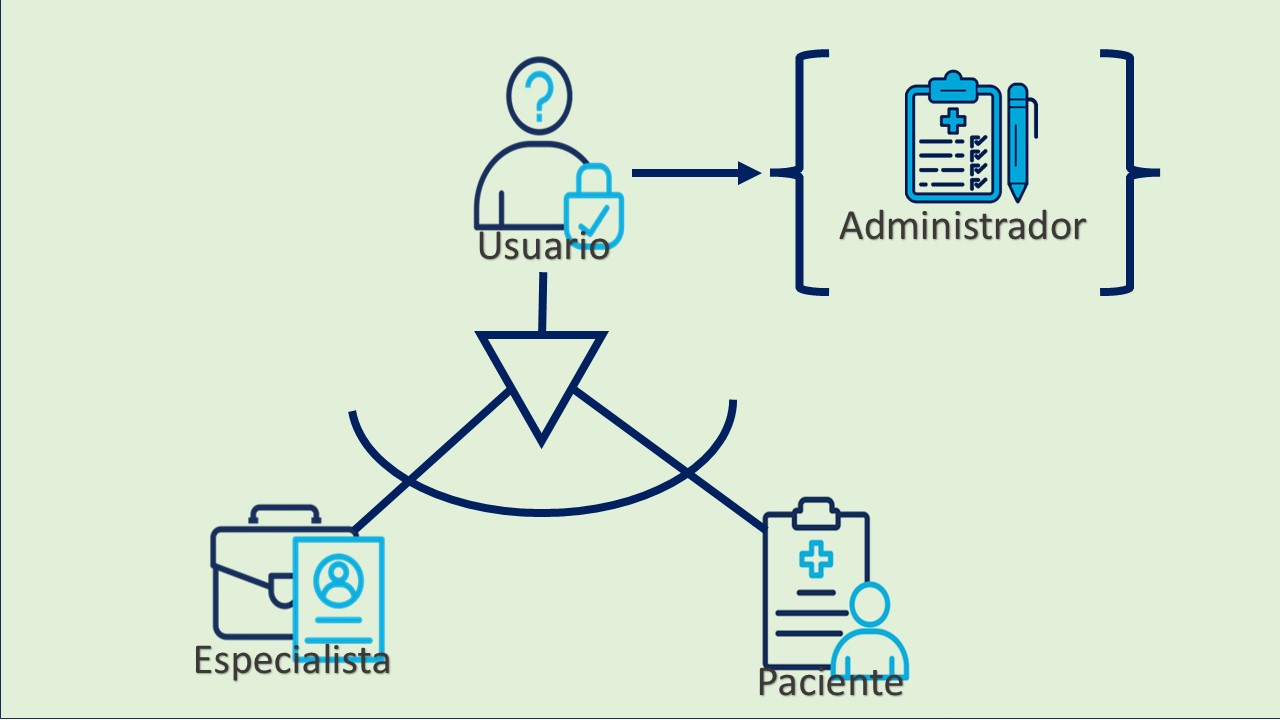
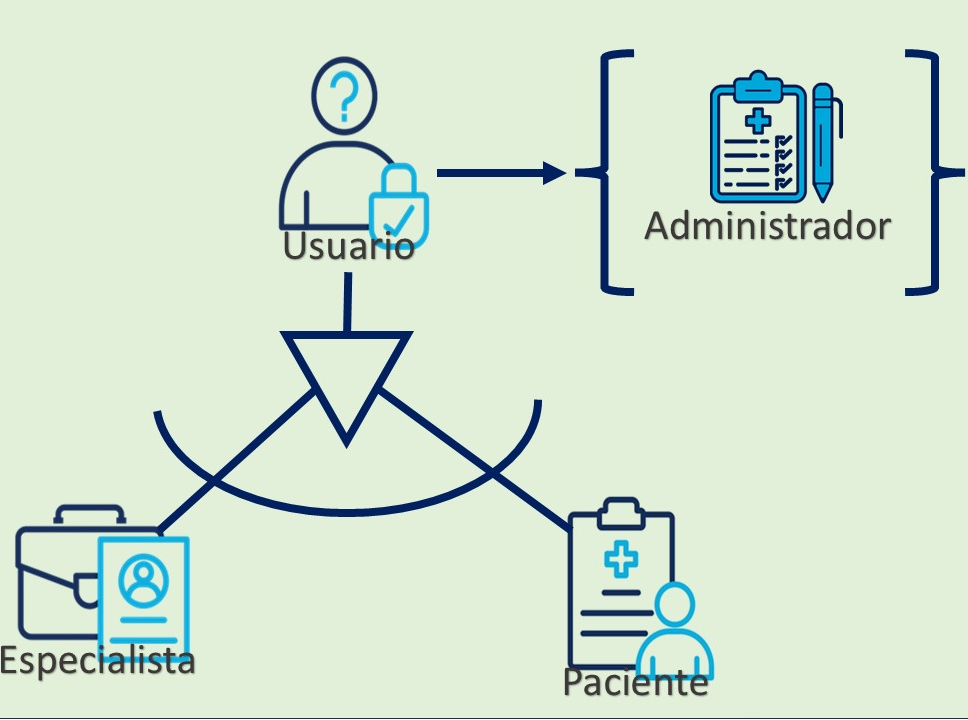
edición de imágenes y implementación de visor especifico de algunas imágenes

diff --git a/presentacion/contenido/003.html b/presentacion/contenido/003.html
@@ -1,10 +1,13 @@
 <div class="block-wrapper">
     <div class="text-content">
         <h2>Diseño del sistema</h2>
-        <p>Lorem, ipsum dolor sit amet consectetur adipisicing elit. Libero, odio! Aspernatur nam culpa molestiae sit iste corporis ipsam voluptate aut, veritatis dolorem nulla veniam eius in odit illo. Voluptatibus natus inventore libero provident alias aspernatur? Blanditiis eaque, et maiores perspiciatis neque quod facilis? Quis nam voluptates molestiae aliquid minus nostrum, perspiciatis asperiores vel, quae repellendus eveniet vitae, porro similique provident fugit facilis atque delectus quia nisi quos error quo at animi numquam? Vel dolore voluptate dolorum assumenda sit. Ab quasi, et aspernatur, possimus mollitia reprehenderit nisi eligendi consequuntur obcaecati magni magnam dolores corporis itaque neque velit aliquid ducimus eum! Perferendis fuga ut, fugit explicabo eaque similique corrupti. Aut omnis vero quis hic nisi! Doloremque et cum error temporibus nostrum ratione praesentium tempore blanditiis quidem inventore qui rem quos, deleniti eum cumque ab voluptate illum accusantium iusto fugiat, minima quibusdam iure. Exercitationem aut doloremque molestias qui nulla sint quae eius hic!</p>
-        <p>Lorem ipsum dolor sit amet consectetur adipisicing elit. Molestias unde officia dolore recusandae voluptates, repellendus eveniet doloremque maiores! Reiciendis, velit. Neque molestiae officia corporis veniam. Modi itaque molestiae facilis labore.</p>
+        <p>Arquitectura API Rest</p>
+        <p>Frontend sirviendo una SPA</p>
+        <p>Laravel sirviendo la API Rest</p>
+        <p>Base de datos en MySQL</p>
+        <p>Docker y Traefik para orquestar el servicio y las comunicaciones</p>
     </div>
     <div class="image-container">
-        <img src="contenido/002.png" alt="Diagrama de flujo de datos del proyecto.">
+        <img src="contenido/003_edit.png" alt="Diagrama de flujo de datos del proyecto.">
     </div>
 </div>

diff --git a/presentacion/contenido/006.html b/presentacion/contenido/006.html
@@ -3,17 +3,17 @@
         <h2>Base de datos</h2>
         <p>La base de datos está diseñada de forma relacional y normalizada.</p>
         <ul>
-            <li><strong>users</strong> -> información común de todos los usuarios</li>
-            <li><strong>roles / model_has_roles</strong> -> control de permisos</li>
-            <li><strong>pacientes / especialistas</strong> -> datos específicos por rol</li>
-            <li><strong>citas</strong> -> gestión unificada de consultas y citas</li>
-            <li><strong>historiales</strong> -> información médica</li>
-            <li><strong>documentos</strong> -> archivos asociados a historiales</li>
-            <li><strong>logs</strong> -> auditoría de acciones</li>
+            <li><p><strong>users</strong> -> información común de todos los usuarios</p></li>
+            <li><p><strong>roles / model_has_roles</strong> -> control de permisos</p></li>
+            <li><p><strong>pacientes / especialistas</strong> -> datos específicos por rol</p></li>
+            <li><p><strong>citas</strong> -> gestión unificada de consultas y citas</p></li>
+            <li><p><strong>historiales</strong> -> información médica</p></li>
+            <li><p><strong>documentos</strong> -> archivos asociados a historiales</p></li>
+            <li><p><strong>logs</strong> -> auditoría de acciones</p></li>
         </ul>
     </div>
 </div>
 <div class="image-container">
-    <img src="contenido/006.png" alt="Imagen de Swagger.">
+    <a href="/presentacion/contenido/Visor_imagen6.html"><img src="contenido/006.png" alt="Base de datos original."></a>
 </div>
 </div>

diff --git a/presentacion/contenido/005.html b/presentacion/contenido/005.html
@@ -2,25 +2,17 @@
     <div class="text-content">
         <h2>Roles del sistema</h2>
         <p><strong>Administrador:</strong></p>
-        <ul>
-            <li>Gestión completa de usuarios</li>
-            <li>Control general del sistema</li>
-        </ul>
+        <p>- Gestión completa de usuarios</p>
+        <p>- Control general del sistema</p>
         <p><strong>Especialista:</strong></p>
-        <ul>
-            <li>Gestión de citas</li>
-            <li>Acceso a historiales médicos</li>
-            <li>Subida y consulta de documentos</li>
-        </ul>
+        <p>- Gestión de citas</p>
+        <p>- Acceso a historiales médicos</p>
+        <p>- Subida y consulta de documentos</p>
         <p><strong>Paciente:</strong></p>
-        <ul>
-            <li>Consulta de citas</li>
-            <li>Acceso a su historial y documentos</li>
-        </ul>
+        <p>- Consulta de citas</p>
+        <p>- Acceso a su historial y documentos</p>
         <p><strong>Usuario:</strong></p>
-        <ul>
-            <li>Usuario sin rol clínico asignado inicialmente</li>
-        </ul>
+        <p>- Usuario sin rol clínico asignado inicialmente</p>
 
     </div>
 </div>

diff --git a/presentacion/contenido/004.html b/presentacion/contenido/004.html
@@ -2,14 +2,14 @@
     <div class="text-content">
         <h2>Arquitectura</h2>
         <ul>
-            <li>Frontend: <strong>Angular (SPA)</strong></li>
-            <li>Backend: <strong>Laravel (API REST)</strong></li>
-            <li>Base de datos: <strong>MySQL</strong></li>
-            <li>Infraestructura: <strong>Docker + Traefik (proxy inverso)</strong></li>
+            <li><p>Frontend: <strong>Angular (SPA)</strong></p></li>
+            <li><p>Backend: <strong>Laravel (API REST)</strong></p></li>
+            <li><p>Base de datos: <strong>MySQL</strong></p></li>
+            <li><p>Infraestructura: <strong>Docker + Traefik (proxy inverso)</strong></p></li>
         </ul>
         <p>Esto me permite aislar servicios, facilitar el despliegue y asegurar coherencia entre entornos.</p>
     </div>
     <div class="image-container">
-        <img src="contenido/002.png" alt="Diagrama de flujo de datos del proyecto.">
+        <a href="/presentacion/contenido/Visor_imagen4.html"><img src="contenido/004_edit.png" alt="Diagrama de flujo de datos del proyecto."></a>
     </div>
 </div>

diff --git a/presentacion/contenido/007.html b/presentacion/contenido/007.html
@@ -2,15 +2,10 @@
     <div class="text-content">
         <h2>Base de datos</h2>
         <p>He priorizado un modelo claro y comprensible frente a uno excesivamente complejo.</p>
-        <p>En el sistema he utilizado control de acceso basado en roles mediante el paquete Spatie.
-            No he implementado permisos individuales porque el dominio del problema se ajusta mejor a un control por
-            roles completos: administrador, especialista, paciente y usuario.
-            Por ese motivo, la base de datos solo incluye las tablas de roles y su relación con usuarios, y no las
-            tablas de permisos, ya que no son necesarias en esta versión del sistema.</p>
-        </p>
+        <p>La persistencia de datos se realiza en MySQL, con un modelo relacional normalizado</p>
     </div>
 </div>
 <div class="image-container">
-    <img src="contenido/007.png" alt="Imagen de Swagger.">
+    <a href="/presentacion/contenido/Visor_imagen7.html"><img src="contenido/007.png" alt="Imagen de Swagger."></a>
 </div>
 </div>

diff --git a/presentacion/contenido/008.html b/presentacion/contenido/008.html
@@ -1,17 +1,16 @@
 <div class="block-wrapper">
     <div class="text-content">
         <h2>Conclusiones</h2>
-        <ul>
-            <li>Objetivos cumplidos</li>
-            <li>Sistema funcional</li>
-            <li>Arquitectura clara</li>
-            <li>Aprendizaje técnico real</li>
-        </ul>
+        <p>Objetivos cumplidos -</p>
+        <p>Sistema funcional -</p>
+        <p>Arquitectura clara -</p>
+        <p>Aprendizaje técnico real -</p>
+
         <p>Este proyecto me ha permitido trabajar no solo el desarrollo, sino también el diseño, la arquitectura y la
             resolución de problemas reales de despliegue y configuración.</p>
     </div>
 </div>
 <div class="image-container">
-    <img src="contenido/005.png" alt="Imagen de Swagger.">
+    <img src="contenido/008.png" alt="Imagen de Swagger.">
 </div>
 </div>

diff --git a/presentacion/contenido/002.html b/presentacion/contenido/002.html
@@ -2,14 +2,13 @@
     <div class="text-content">
         <h2>Introducción / Objetivo del proyecto.</h2>
         <p>TFG pero con enfoque realista pensado para pequeñas clínicas (no SaaS masivo)</p>
-        <h2>Descripción técnica.</h2>
+        <p><strong>Buscando:</strong></p>
         <ul>
             <li><p>Seguridad -</p></li>
             <li><p>Usabilidad -</p></li>
             <li><p>Simplicidad en los roles -</p></li>
         </ul>
 
-        <p>Buscando la un mantenimiento sencillo</p>
     </div>
     <div class="image-container">
         <img src="contenido/002.png" alt="Diagrama de flujo de datos del proyecto.">

diff --git a/presentacion/contenido/009.html b/presentacion/contenido/009.html
@@ -1,5 +1,5 @@
 <div class="block-wrapper">
     <div class="text-content">
-        <h2>Gracias.</h2>
-        <p>¿Preguntas?</p>
+        <h1 style="size: 36px; color: darkslategray;">Gracias.</h1>
+        <p  style="size: 26px; color: darkslategrey;">¿Preguntas?</p>
 </div>

diff --git a/presentacion/contenido/Visor_imagen4.html b/presentacion/contenido/Visor_imagen4.html
@@ -1,0 +1,3 @@
+<div class="image-container_2">
+    <img src="/presentacion/contenido/004_edit.png" alt="Base de datos original">
+</div>

diff --git a/presentacion/contenido/Visor_imagen6.html b/presentacion/contenido/Visor_imagen6.html
@@ -1,0 +1,3 @@
+<div class="image-container_2">
+    <img src="/presentacion/contenido/006.png" alt="Base de datos original">
+</div>

diff --git a/presentacion/contenido/Visor_imagen7.html b/presentacion/contenido/Visor_imagen7.html
@@ -1,0 +1,3 @@
+<div class="image-container_2">
+    <img src="/presentacion/contenido/007.png" alt="Base de datos final">
+</div>
